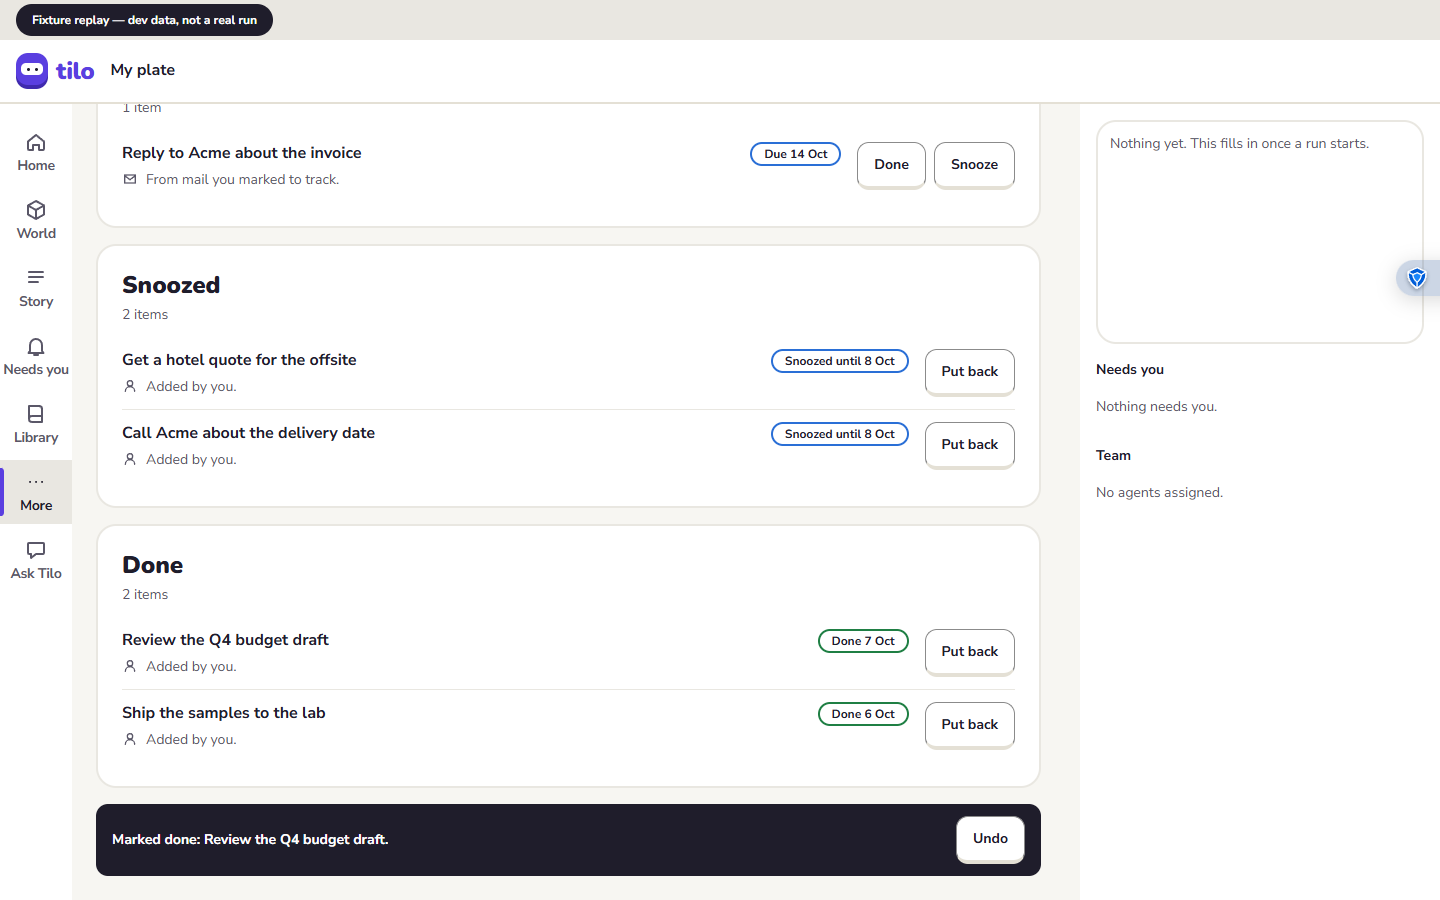
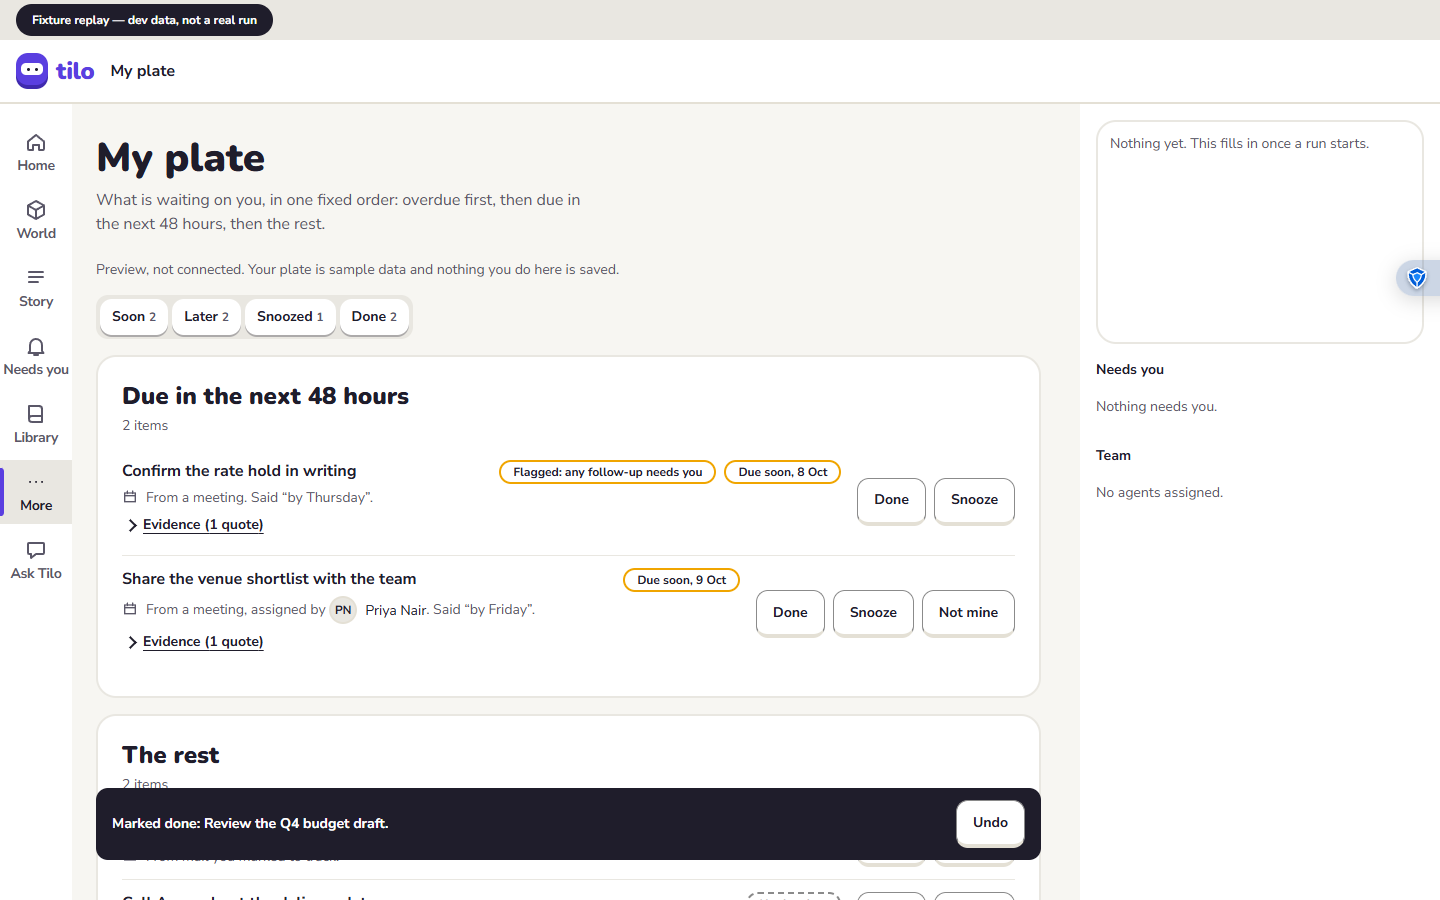
fix(web): PPL-40a S-27: sticky toast on screen, one at a time, clears after 8 s
Req: PPL-40a

diff --git a/apps/web/e2e/people-screens.spec.ts b/apps/web/e2e/people-screens.spec.ts
@@ -85,53 +85,85 @@ for (const [name, viewport] of Object.entries({ desktop: DESKTOP, mobile: MOBILE
       ).toEqual([]);
     });
 
-    test("PPL-40a S-27: the toast never covers a visible button, at the top, middle or end of the page", async ({
+    test("PPL-40a S-27: after an action the toast is on screen above the nav and never covers the last rows", async ({
       page,
     }) => {
       await watchShifts(page);
       await page.goto("/plate");
-      await page.getByRole("button", { name: /^Snooze until tomorrow: Call Acme/ }).click();
-      await page.getByRole("button", { name: /^Done: Review the Q4/ }).click();
-      await expect(page.getByTestId("plate-status")).toBeVisible();
       const slot = page.getByTestId("plate-toast");
-      const covered = () =>
+      const scrolled = () =>
+        page.evaluate(
+          () =>
+            window.scrollY +
+            [...document.querySelectorAll("*")].reduce((n, el) => n + el.scrollTop, 0),
+        );
+      // What the toast overlaps: visible buttons, links and summaries under it, and the nav.
+      const overlaps = () =>
         slot.evaluate((el) => {
-          const toast = el.querySelector(".plate-toast")?.getBoundingClientRect();
-          if (!toast) return ["no toast"];
-          const vh = window.innerHeight;
-          return [...document.querySelectorAll("main button, main a, main summary")].flatMap(
+          const t = el.querySelector(".plate-toast")?.getBoundingClientRect();
+          if (!t) return { inView: false, under: ["no toast"], nav: false };
+          const hit = (r: DOMRect) =>
+            r.left < t.right && r.right > t.left && r.top < t.bottom && r.bottom > t.top;
+          const under = [...document.querySelectorAll("main button, main a, main summary")].flatMap(
             (b) => {
-              if (el.contains(b)) return [];
               const r = b.getBoundingClientRect();
-              const shown = r.bottom > 0 && r.top < vh && r.width > 0;
-              const hit =
-                r.left < toast.right &&
-                r.right > toast.left &&
-                r.top < toast.bottom &&
-                r.bottom > toast.top;
-              return shown && hit ? [`${b.textContent?.trim()}`] : [];
+              const shown = r.bottom > 0 && r.top < window.innerHeight && r.width > 0;
+              return el.contains(b) || !shown || !hit(r) ? [] : [b.textContent?.trim() ?? ""];
             },
           );
+          const nav = [...document.querySelectorAll("nav")].some((n) => {
+            const r = n.getBoundingClientRect();
+            return r.height > 0 && getComputedStyle(n).position === "fixed" && hit(r);
+          });
+          const inView = t.top >= 0 && t.bottom <= window.innerHeight && t.width > 0;
+          return { inView, under, nav };
         });
-      for (const to of [0, 0.5, 1]) {
-        await page.evaluate((f) => {
-          for (const el of document.querySelectorAll("*"))
-            if (
-              el.scrollHeight > el.clientHeight + 1 &&
-              getComputedStyle(el).overflowY !== "visible"
-            )
-              el.scrollTop = (el.scrollHeight - el.clientHeight) * f;
-          window.scrollTo(0, (document.documentElement.scrollHeight - innerHeight) * f);
-        }, to);
-        expect(await covered()).toEqual([]);
-      }
-      // The box is reserved at toast height before any toast shows, so nothing shifts.
-      const box = await slot.boundingBox();
-      expect(box?.height).toBeGreaterThanOrEqual(name === "mobile" ? 100 : 68);
-      await expect(slot).toHaveAttribute("data-used", "true");
+      const first = page.getByRole("button", { name: /^Done: Review the Q4/ });
+      await first.scrollIntoViewIfNeeded();
+      const before = await scrolled();
+      await first.click();
+      await expect(page.getByTestId("plate-status")).toHaveText(/^Marked done/);
+      expect(await scrolled()).toBe(before);
+      // A sticky toast sits over whatever scrolls under the bottom of the view; it is on screen,
+      // clear of the nav, and gone after 8 s (below).
+      const now = await overlaps();
+      expect([now.inView, now.nav]).toEqual([true, false]);
+      // At the end of the page it sits below the last row, not over it.
+      await page.evaluate(() => {
+        for (const el of document.querySelectorAll("*")) el.scrollTop = el.scrollHeight;
+        window.scrollTo(0, document.documentElement.scrollHeight);
+      });
+      expect(await overlaps()).toEqual({ inView: true, under: [], nav: false });
       expect(
         await page.evaluate(() => (window as unknown as { __shifts: number[] }).__shifts),
       ).toEqual([]);
+    });
+
+    test("PPL-40a S-27: the toast clears itself after 8 s, unless focus is in it, and one replaces the last", async ({
+      page,
+    }) => {
+      await page.clock.install();
+      await page.goto("/plate");
+      const slot = page.getByTestId("plate-toast");
+      const status = page.getByTestId("plate-status");
+      await page.getByRole("button", { name: /^Snooze until tomorrow: Call Acme/ }).click();
+      await expect(slot).toHaveAttribute("data-on", "true");
+      await page.getByRole("button", { name: /^Done: Review the Q4/ }).click();
+      await expect(status).toHaveText("Marked done: Review the Q4 budget draft."); // replaced, not stacked
+      await expect(slot.locator(".plate-toast")).toHaveCount(1);
+      await page.clock.fastForward(5000);
+      await expect(slot).toHaveAttribute("data-on", "true");
+      await page.clock.fastForward(4000);
+      await expect(slot).toHaveAttribute("data-on", "false");
+      await expect(status).toHaveText("");
+      // With focus on Undo it stays; once focus leaves, it goes.
+      await page.getByRole("button", { name: /^Done: Confirm the rate hold/ }).click();
+      await page.getByRole("button", { name: "Undo" }).focus();
+      await page.clock.fastForward(20_000);
+      await expect(slot).toHaveAttribute("data-on", "true");
+      await page.getByRole("button", { name: "Undo" }).blur();
+      await page.clock.fastForward(9000);
+      await expect(slot).toHaveAttribute("data-on", "false");
     });
 
     test("PPL-40a S-27: acting on a row never scrolls the page, keeps focus in the list and announces it", async ({
@@ -140,10 +172,10 @@ for (const [name, viewport] of Object.entries({ desktop: DESKTOP, mobile: MOBILE
       await watchShifts(page);
       await page.goto("/plate");
       // The status is a polite live region that is in the page before anything is done, and no
-      // blank toast box is reserved yet.
+      // blank toast box is kept yet.
       const status = page.getByTestId("plate-status");
       await expect(page.getByRole("status").and(status)).toHaveCount(1); // <output>: role status, polite
-      await expect(page.getByTestId("plate-toast")).toHaveAttribute("data-used", "false");
+      await expect(page.getByTestId("plate-toast")).toHaveAttribute("data-on", "false");
       expect((await page.getByTestId("plate-toast").boundingBox())?.height ?? 0).toBeLessThan(2);
       const scrolled = () =>
         page.evaluate(
@@ -162,7 +194,8 @@ for (const [name, viewport] of Object.entries({ desktop: DESKTOP, mobile: MOBILE
       await expect(page.locator("#plate-group-soon")).toBeFocused();
       // First row of a group with more rows: focus lands on the next row's same control.
       const soon = page.getByRole("button", { name: "Done: Confirm the rate hold in writing" });
-      await soon.scrollIntoViewIfNeeded();
+      // Centred, clear of the sticky toast, so the click itself needs no scroll.
+      await soon.evaluate((el) => el.scrollIntoView({ block: "center" }));
       const mid = await scrolled();
       await soon.click();
       await expect(status).toHaveText("Marked done: Confirm the rate hold in writing.");

diff --git a/apps/web/src/screens/S_27.tsx b/apps/web/src/screens/S_27.tsx
@@ -20,6 +20,9 @@ import {
 } from "../people/plate";
 import { Chip, EmptyState, Page, Section, longDate, plural } from "./kit";
 
+/** How long the toast stays before it clears itself. */
+const TOAST_MS = 8000;
+
 type Key = Bucket | "snoozed" | "asked" | "done";
 /** The groups in plate order: key, title, pill word. The first three are the open items. */
 const GROUPS: ReadonlyArray<readonly [Key, string, string]> = [
@@ -78,6 +81,18 @@ function Source({ item: i }: { item: WorkItem }) {
 export function S_27() {
   const [items, act] = useReducer(reducePlate, WORK_ITEMS);
   const [toast, setToast] = useState<{ text: string; undo: string | null } | null>(null);
+  const slot = useRef<HTMLDivElement>(null);
+  // One toast at a time: the next action replaces it. It leaves after TOAST_MS, unless focus is in
+  // it (a keyboard user on Undo): then it waits and goes once focus has left.
+  const [wait, setWait] = useState(0); // counts the times the clock found focus in the toast
+  useEffect(() => {
+    if (!toast) return;
+    const timer = window.setTimeout(
+      () => (slot.current?.contains(document.activeElement) ? setWait(wait + 1) : setToast(null)),
+      TOAST_MS,
+    );
+    return () => window.clearTimeout(timer);
+  }, [toast, wait]);
   // Where focus goes once the acted row has left its list. It stays where the person is looking:
   // the next row's same control, else the group's own box (tabIndex -1). The toast is announced
   // by its live region, never focused, so acting never scrolls the page.
@@ -211,10 +226,16 @@ export function S_27() {
           </div>
         ),
       )}
-      {/* In the page's flow after the last group, so it never covers a button. The box is reserved
-          only once something has been done, and the text is a polite live region that is always
-          mounted, so the change is announced; focus stays on the list. */}
-      <div className="plate-toast-slot" data-testid="plate-toast" data-used={toast !== null}>
+      {/* The last thing in the page, sticky to the bottom of the view so the result and Undo are
+          on screen without scrolling. While a toast shows, it also takes its own height at the end
+          of the page, so it never covers the last rows. The text is a polite live region that is
+          always mounted, so the change is announced; focus stays on the list. */}
+      <div
+        ref={slot}
+        className="plate-toast-slot"
+        data-testid="plate-toast"
+        data-on={toast !== null}
+      >
         <div className="plate-toast" data-on={toast !== null}>
           <output data-testid="plate-status">{toast?.text}</output>
           {toast?.undo && (

diff --git a/apps/web/src/people/people.test.tsx b/apps/web/src/people/people.test.tsx
@@ -116,17 +116,13 @@ describe("PPL-40a S-27 My plate", () => {
   it("PPL_40a acting leaves focus in the list: the next row's same control, else a group box", async () => {
     document.body.replaceChildren(); // the screen looks rows up by id in the document
     const box = await render(<S_27 />);
-    expect(box.querySelector('[data-testid="plate-toast"]')?.getAttribute("data-used")).toBe(
-      "false",
-    );
+    expect(box.querySelector('[data-testid="plate-toast"]')?.getAttribute("data-on")).toBe("false");
     await click(named(box, "Done: Confirm the rate hold in writing"));
     expect(document.activeElement).toBe(named(box, "Done: Share the venue shortlist"));
     await click(named(box, "Done: Review the Q4 budget draft")); // the only overdue row
     expect(document.activeElement?.id).toBe("plate-group-soon");
     expect(document.querySelector(".plate-toast button")).not.toBe(document.activeElement);
-    expect(box.querySelector('[data-testid="plate-toast"]')?.getAttribute("data-used")).toBe(
-      "true",
-    );
+    expect(box.querySelector('[data-testid="plate-toast"]')?.getAttribute("data-on")).toBe("true");
   });
 
   it("PPL_40a the strip has a pill per group with the real count, and Undo in the toast puts the item back", async () => {

diff --git a/apps/web/src/people/people.css b/apps/web/src/people/people.css
@@ -256,10 +256,12 @@
 .plate-toast-slot {
   display: block;
   box-sizing: border-box;
+  position: sticky;
+  bottom: var(--space-16);
+  z-index: 5;
 }
-.plate-toast-slot[data-used="true"] {
-  min-height: 68px; /* reserved once something was done: one line and Undo, more on a phone */
-  margin-top: var(--space-16);
+.plate-toast-slot[data-on="true"] {
+  margin-top: var(--space-16); /* its own height is the room kept at the end of the page */
 }
 .source-icon {
   display: inline-block;
@@ -269,10 +271,16 @@
 }
 .plate-toast {
   display: flex;
-  flex-wrap: wrap;
   align-items: center;
   justify-content: space-between;
   gap: var(--space-12);
+}
+.plate-toast output {
+  flex: 1 1 0;
+  min-width: 0; /* the words wrap beside Undo, so the bar stays low over the rows under it */
+}
+.plate-toast button {
+  flex: none;
 }
 .plate-toast[data-on="true"] {
   padding: var(--space-12) var(--space-16);
@@ -597,9 +605,6 @@
 }
 
 @media (max-width: 767px) {
-  .plate-toast-slot[data-used="true"] {
-    min-height: 100px;
-  }
   .people-strip {
     flex-wrap: nowrap;
     overflow-x: auto;
